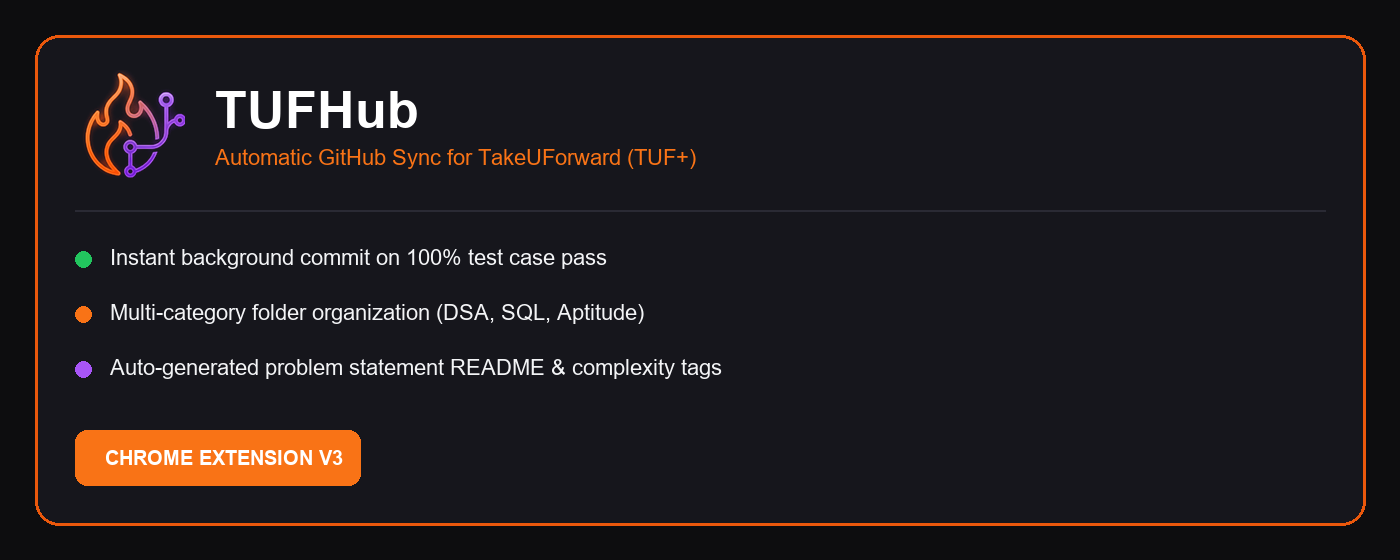
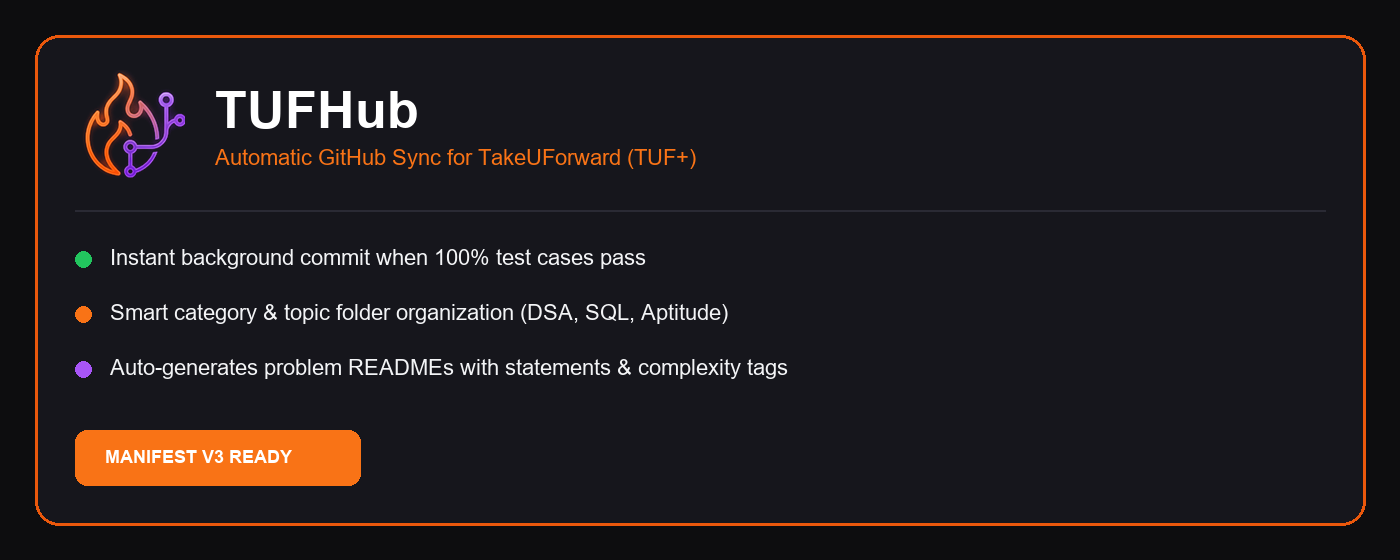
docs: polish promo tile wordings to use Manifest V3 Ready badge

diff --git a/README.md b/README.md
@@ -30,7 +30,7 @@ No manual copying. No drag and drop. Just solve, submit, and your solution lands
 ## Screenshots & Showcase
 
 <p align="center">
-  <img src="src/assets/readme_screenshots/popup_dashboard.png" width="360" alt="TUFHub Extension Popup Dashboard" />
+  <img src="src/assets/readme_screenshots/popup_dashboard_v2.png" width="900" alt="TUFHub Extension Popup Dashboard" />
 </p>
 
 ### 📁 Master Solutions Repository Index
